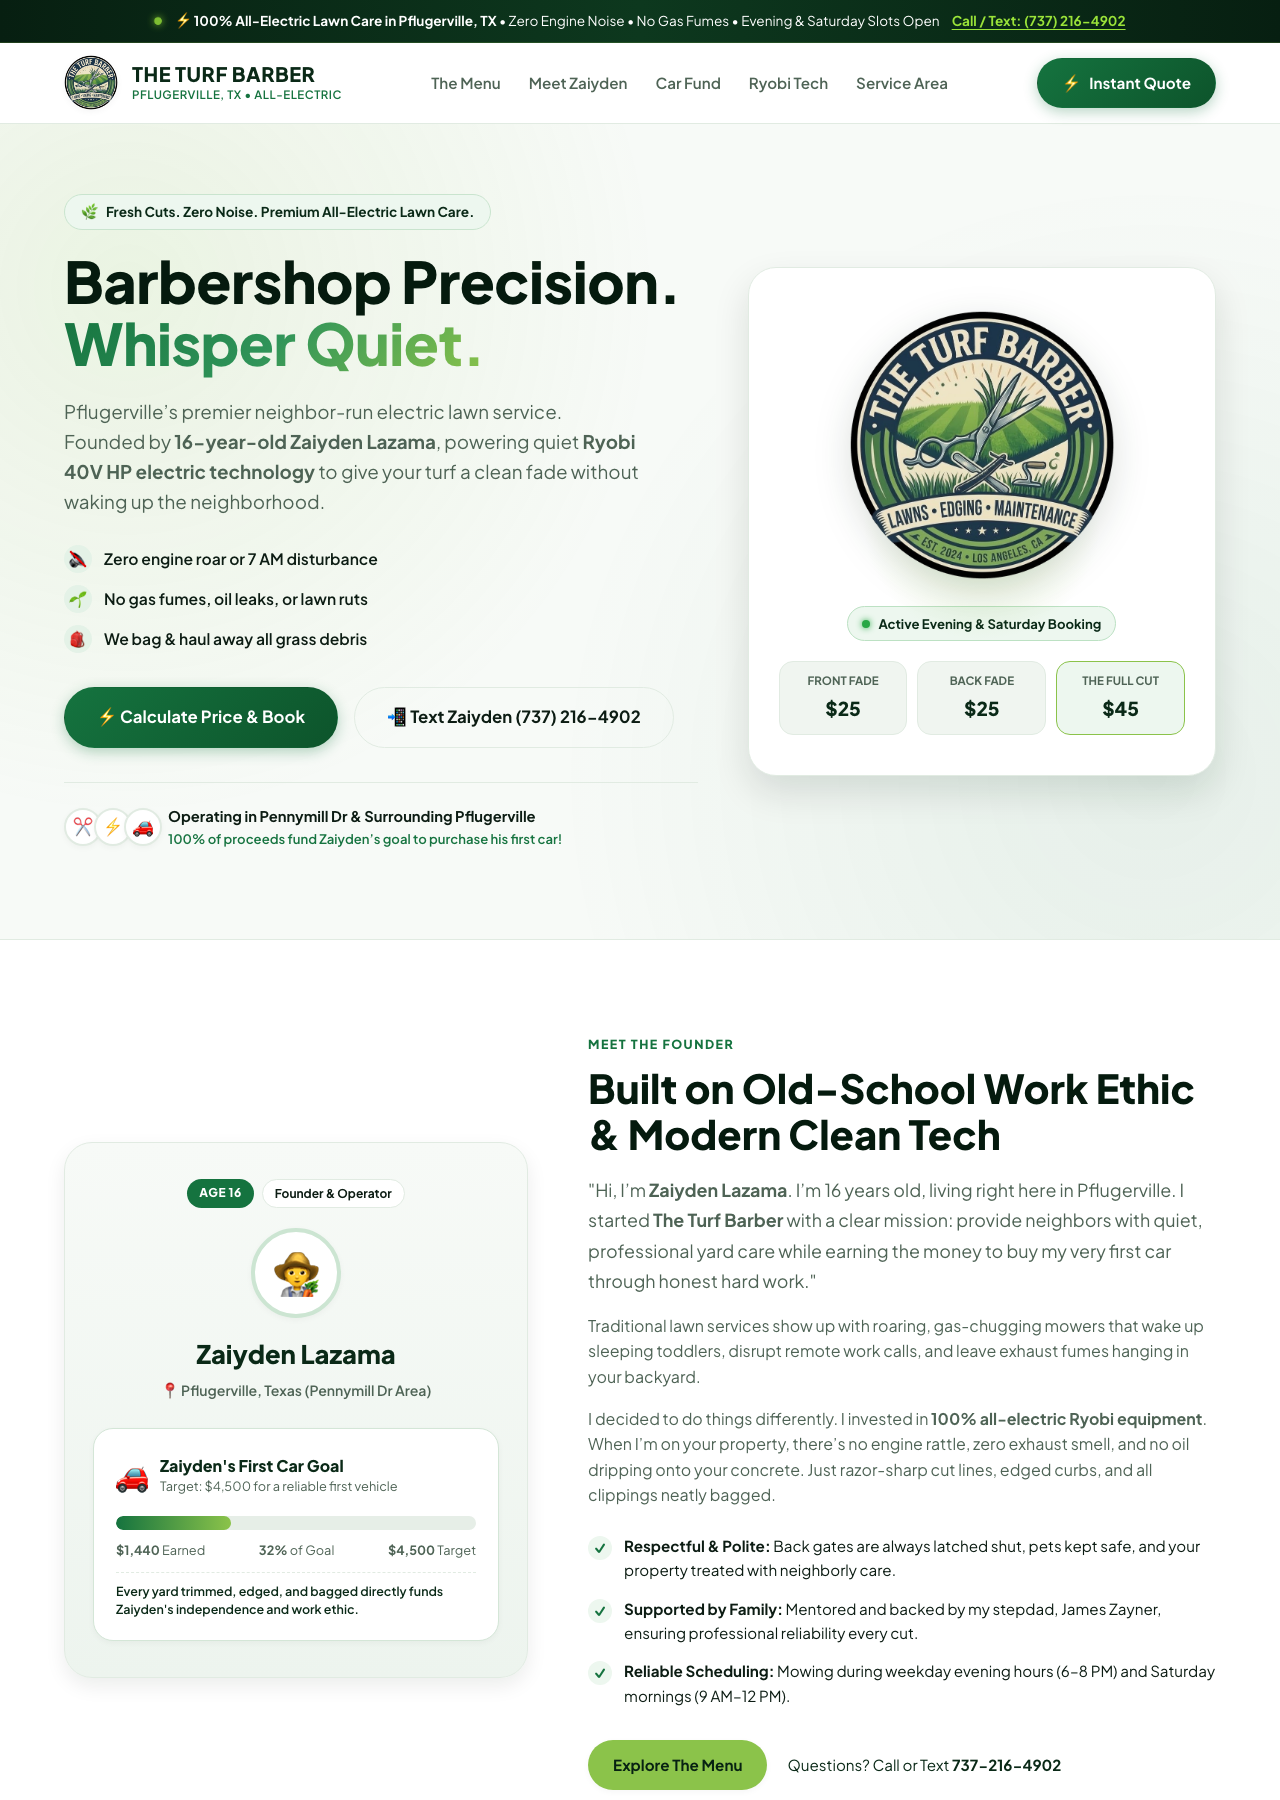
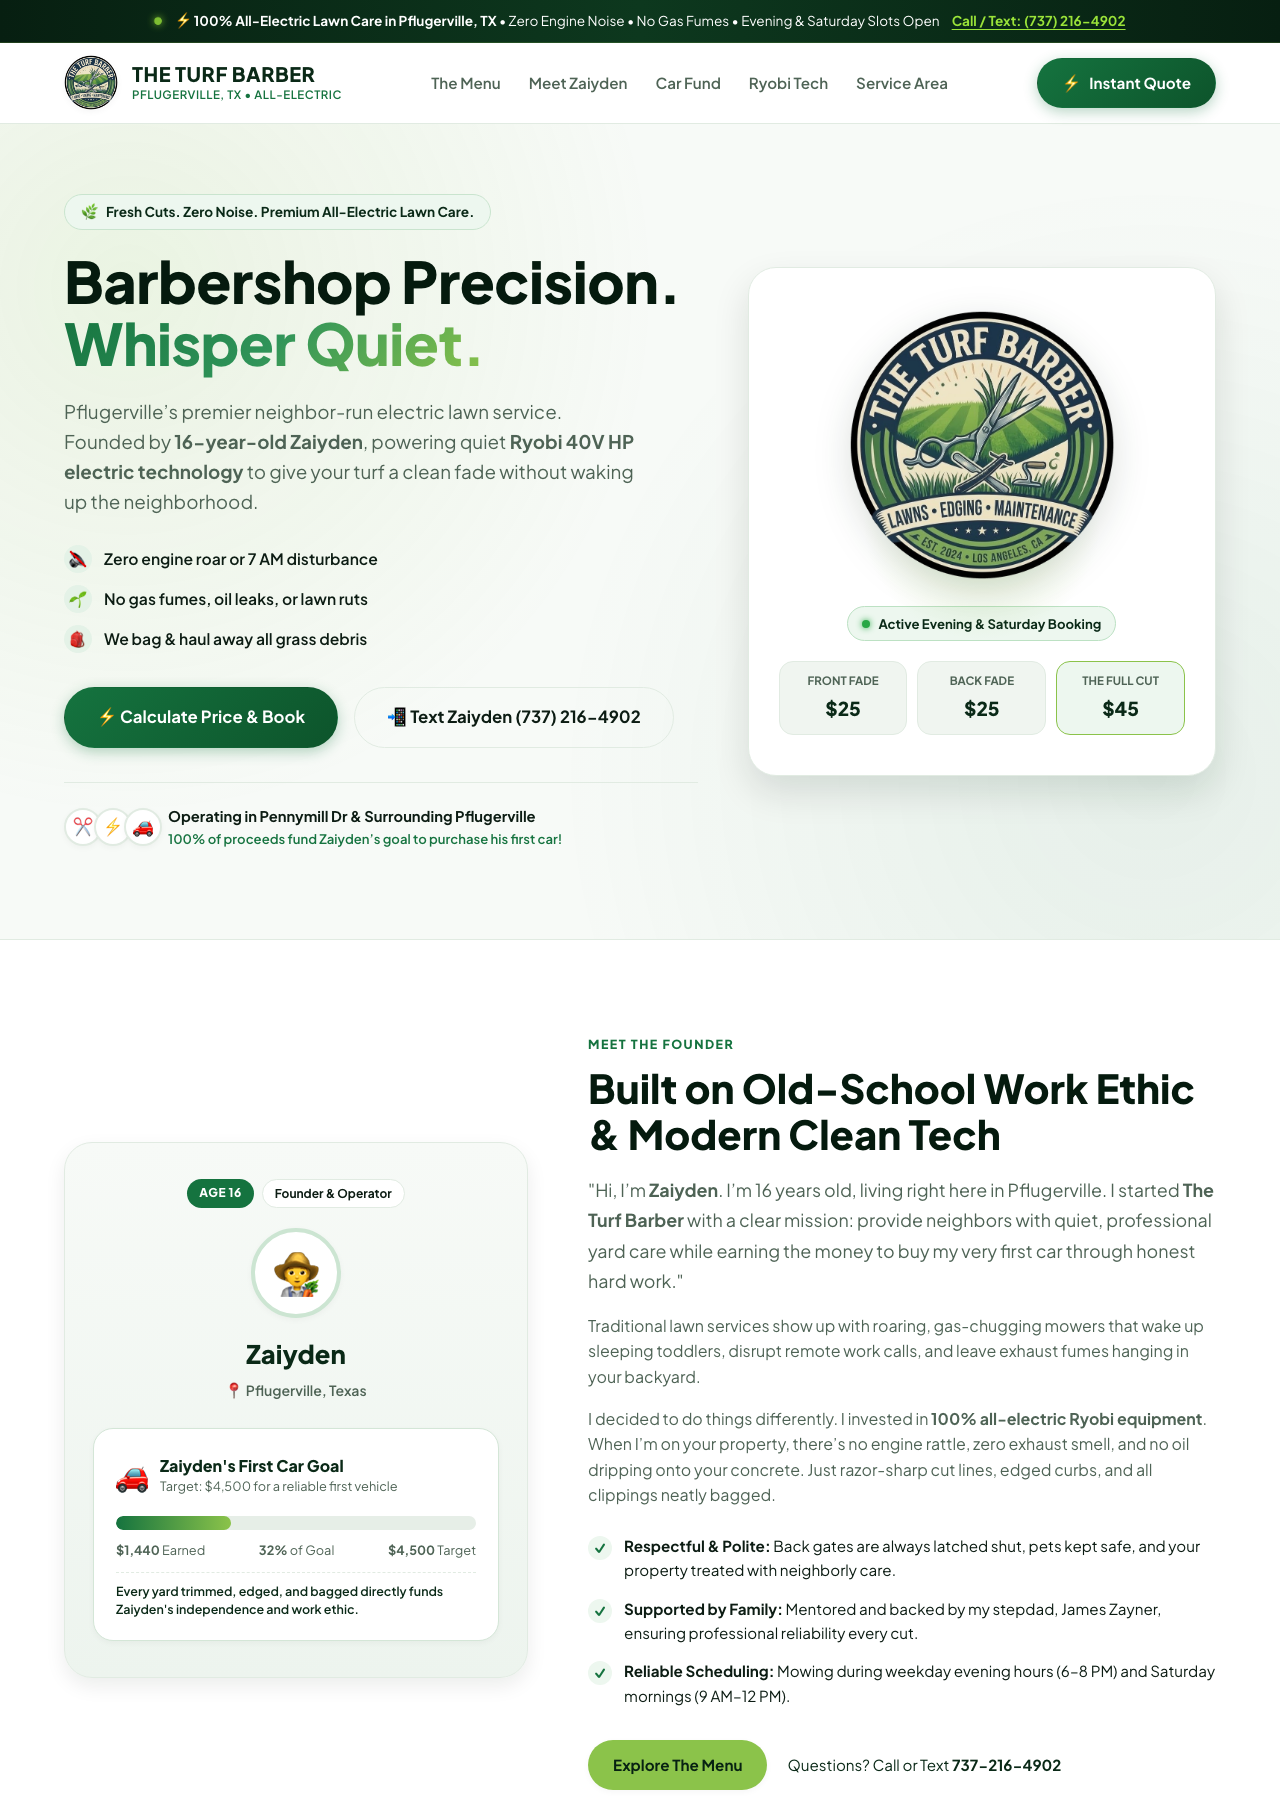
Update branding: remove last name and refine profile location to Pflugerville, TX

Changed region(s): [[0.4688, 0.6533, 0.9375, 0.7156], [0.0625, 0.2178, 0.5, 0.28], [0.125, 0.7467, 0.3125, 0.7778]]

diff --git a/index.html b/index.html
@@ -4,8 +4,8 @@
   <meta charset="UTF-8">
   <meta name="viewport" content="width=device-width, initial-scale=1.0">
   <title>The Turf Barber | Fresh Cuts. Zero Noise. | Pflugerville, TX</title>
-  <meta name="description" content="100% All-Electric Lawn Care in Pflugerville, TX by 16-year-old Zaiyden Lazama. Precision cuts, zero noise, powered by Ryobi electric tools. Call or text (737) 216-4902!">
-  <meta name="keywords" content="The Turf Barber, lawn care Pflugerville TX, electric lawn mowing, quiet lawn care, Zaiyden Lazama, Pennymill Dr Pflugerville, Ryobi electric mower">
+  <meta name="description" content="100% All-Electric Lawn Care in Pflugerville, TX by 16-year-old Zaiyden. Precision cuts, zero noise, powered by Ryobi electric tools. Call or text (737) 216-4902!">
+  <meta name="keywords" content="The Turf Barber, lawn care Pflugerville TX, electric lawn mowing, quiet lawn care, Zaiyden, Pennymill Dr Pflugerville, Ryobi electric mower">
   
   <!-- Open Graph / Facebook -->
   <meta property="og:type" content="website">
@@ -85,7 +85,7 @@
         </h1>
 
         <p class="hero-subtitle">
-          Pflugerville’s premier neighbor-run electric lawn service. Founded by <strong>16-year-old Zaiyden Lazama</strong>, powering quiet <strong>Ryobi 40V HP electric technology</strong> to give your turf a clean fade without waking up the neighborhood.
+          Pflugerville’s premier neighbor-run electric lawn service. Founded by <strong>16-year-old Zaiyden</strong>, powering quiet <strong>Ryobi 40V HP electric technology</strong> to give your turf a clean fade without waking up the neighborhood.
         </p>
 
         <div class="hero-points">
@@ -167,8 +167,8 @@
             <div class="founder-avatar-circle">
               <span class="founder-emoji">🧑🌾</span>
             </div>
-            <h3 class="founder-name">Zaiyden Lazama</h3>
-            <p class="founder-location">📍 Pflugerville, Texas (Pennymill Dr Area)</p>
+            <h3 class="founder-name">Zaiyden</h3>
+            <p class="founder-location">📍 Pflugerville, Texas</p>
 
             <div class="car-fund-box" id="car-fund">
               <div class="car-fund-header">
@@ -195,7 +195,7 @@
           <div class="section-tag">MEET THE FOUNDER</div>
           <h2 class="section-title">Built on Old-School Work Ethic & Modern Clean Tech</h2>
           <p class="lead-text">
-            "Hi, I’m <strong>Zaiyden Lazama</strong>. I’m 16 years old, living right here in Pflugerville. I started <strong>The Turf Barber</strong> with a clear mission: provide neighbors with quiet, professional yard care while earning the money to buy my very first car through honest hard work."
+            "Hi, I’m <strong>Zaiyden</strong>. I’m 16 years old, living right here in Pflugerville. I started <strong>The Turf Barber</strong> with a clear mission: provide neighbors with quiet, professional yard care while earning the money to buy my very first car through honest hard work."
           </p>
           <p>
             Traditional lawn services show up with roaring, gas-chugging mowers that wake up sleeping toddlers, disrupt remote work calls, and leave exhaust fumes hanging in your backyard.
@@ -669,7 +669,7 @@
           <span class="footer-title">THE TURF BARBER</span>
         </div>
         <p class="footer-tagline">Fresh Cuts. Zero Noise. Premium all-electric lawn care in Pflugerville, Texas.</p>
-        <p class="footer-owner">Founder & Operator: <strong>Zaiyden Lazama (16)</strong> &bull; Business Mentorship: <strong>James Zayner</strong></p>
+        <p class="footer-owner">Founder & Operator: <strong>Zaiyden (16)</strong> &bull; Business Mentorship: <strong>James Zayner</strong></p>
       </div>
 
       <div class="footer-links">
